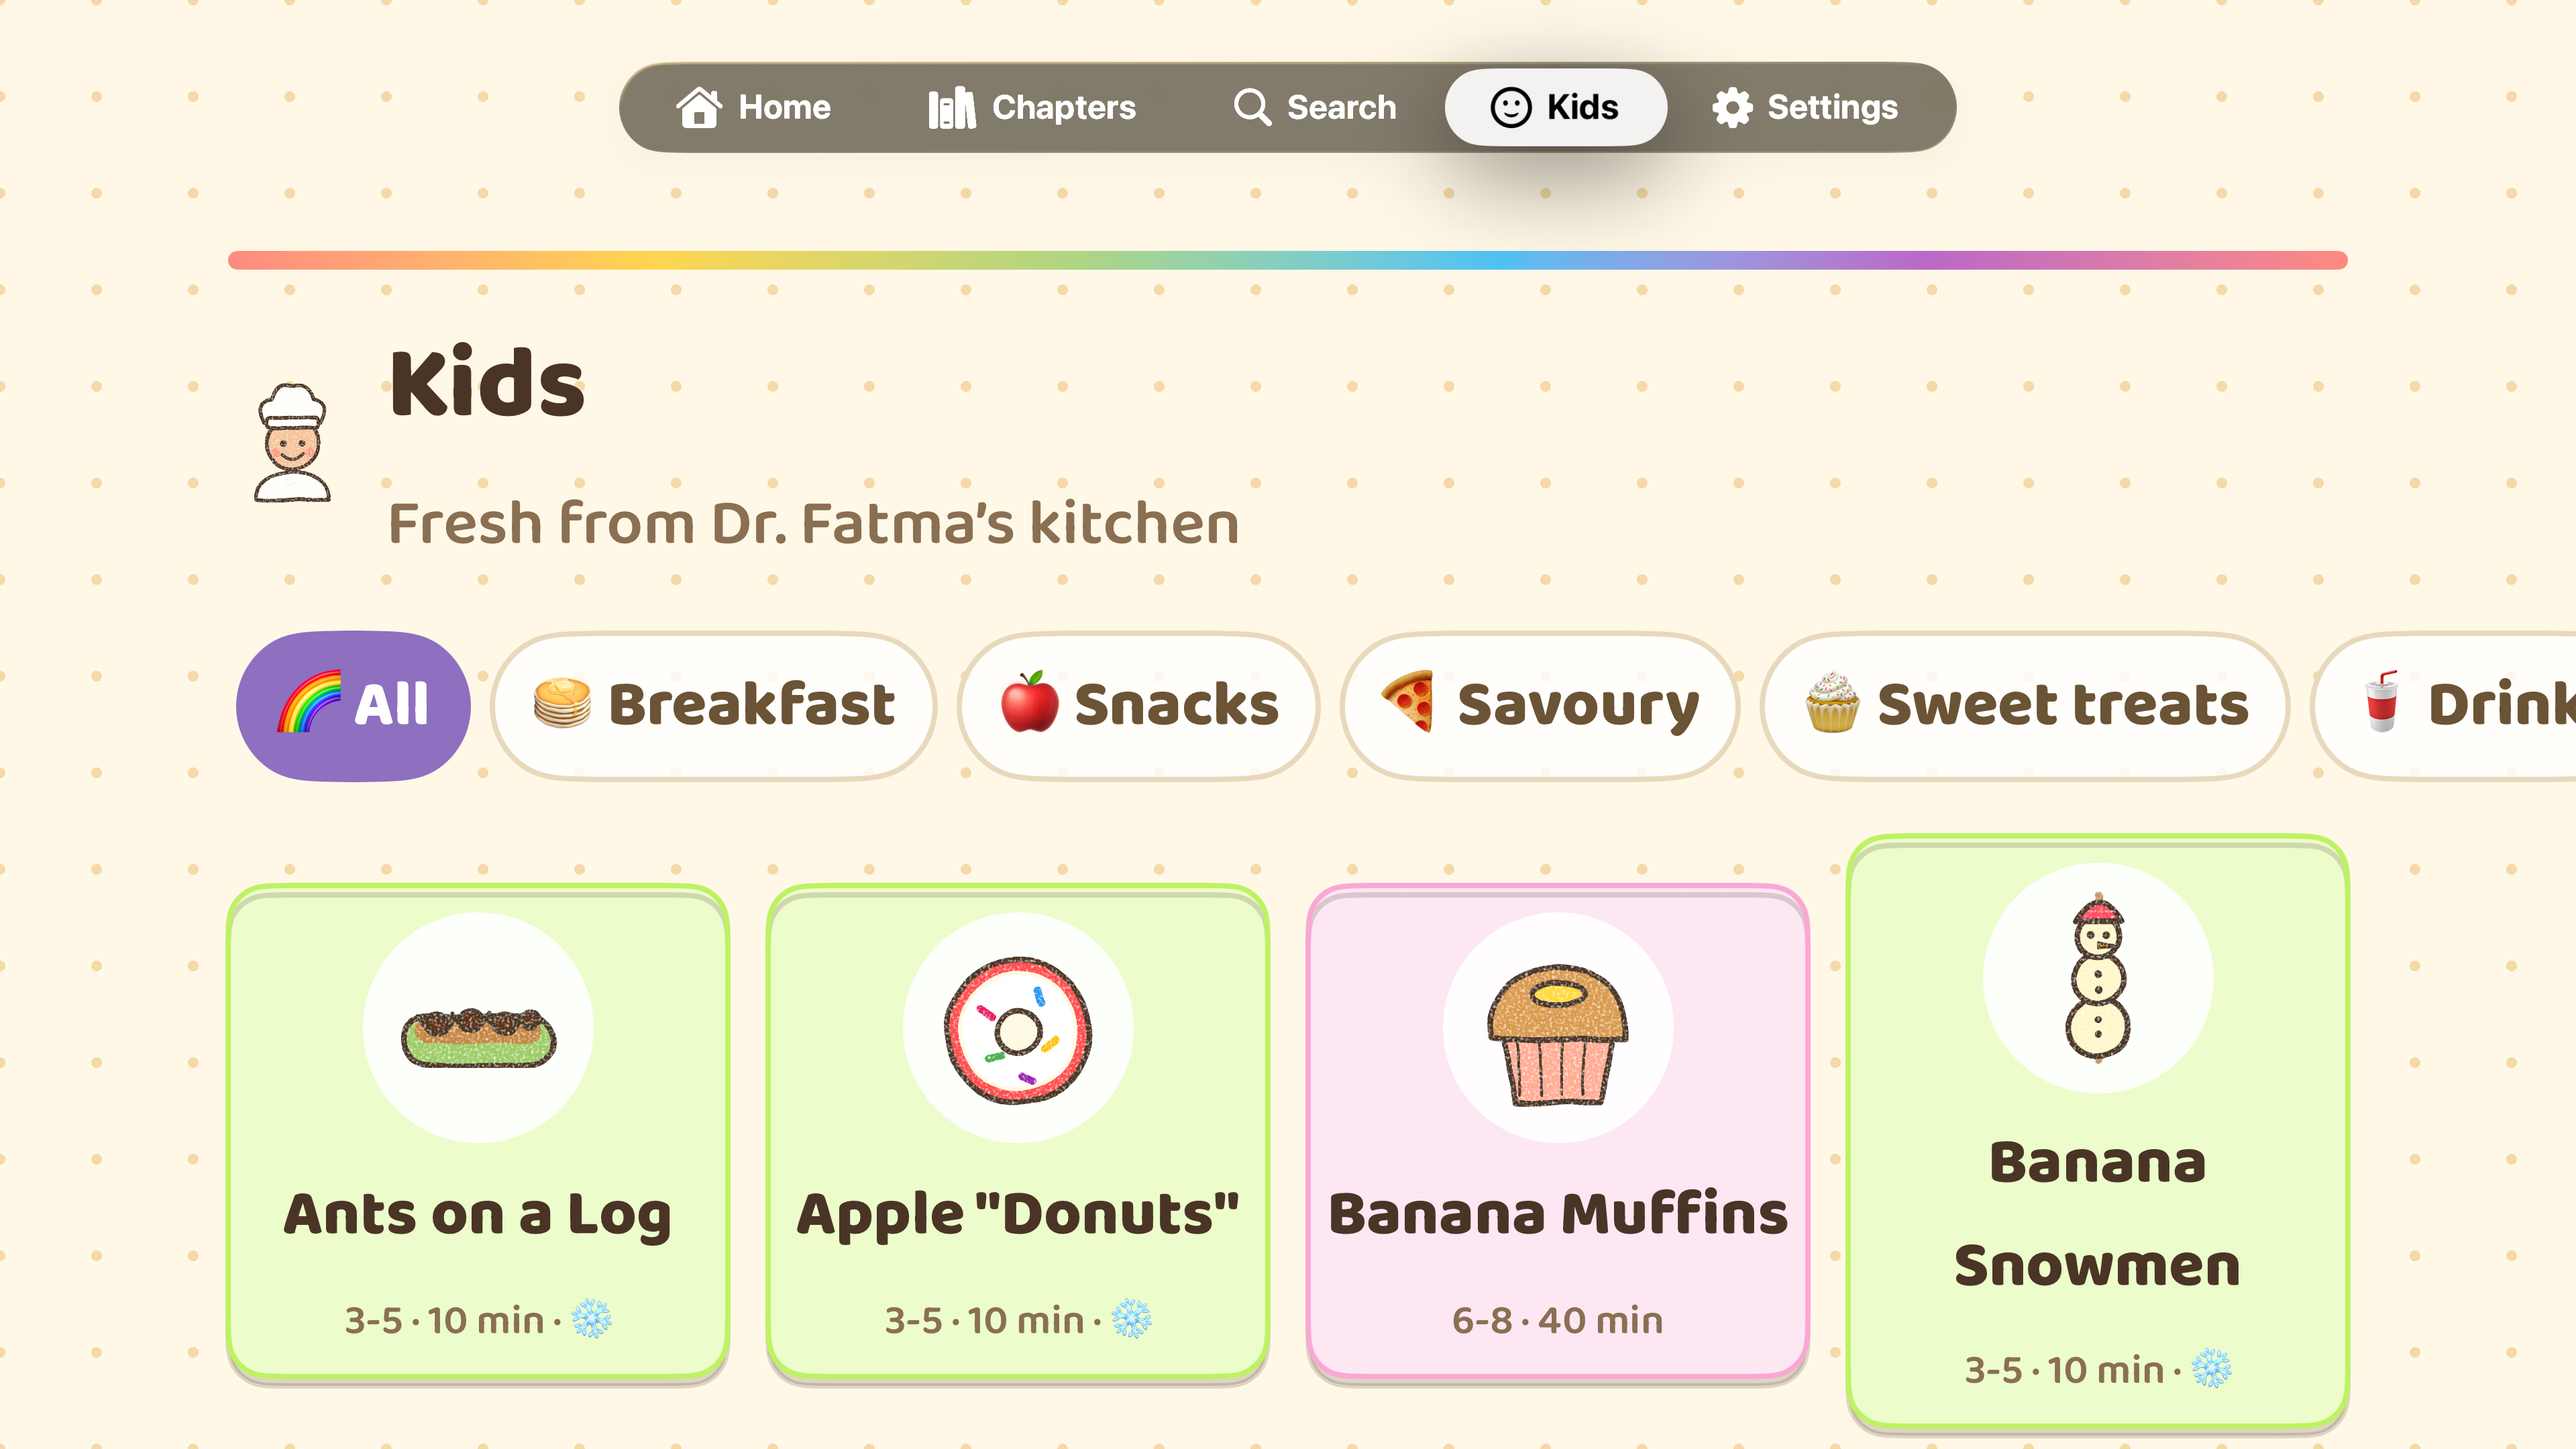
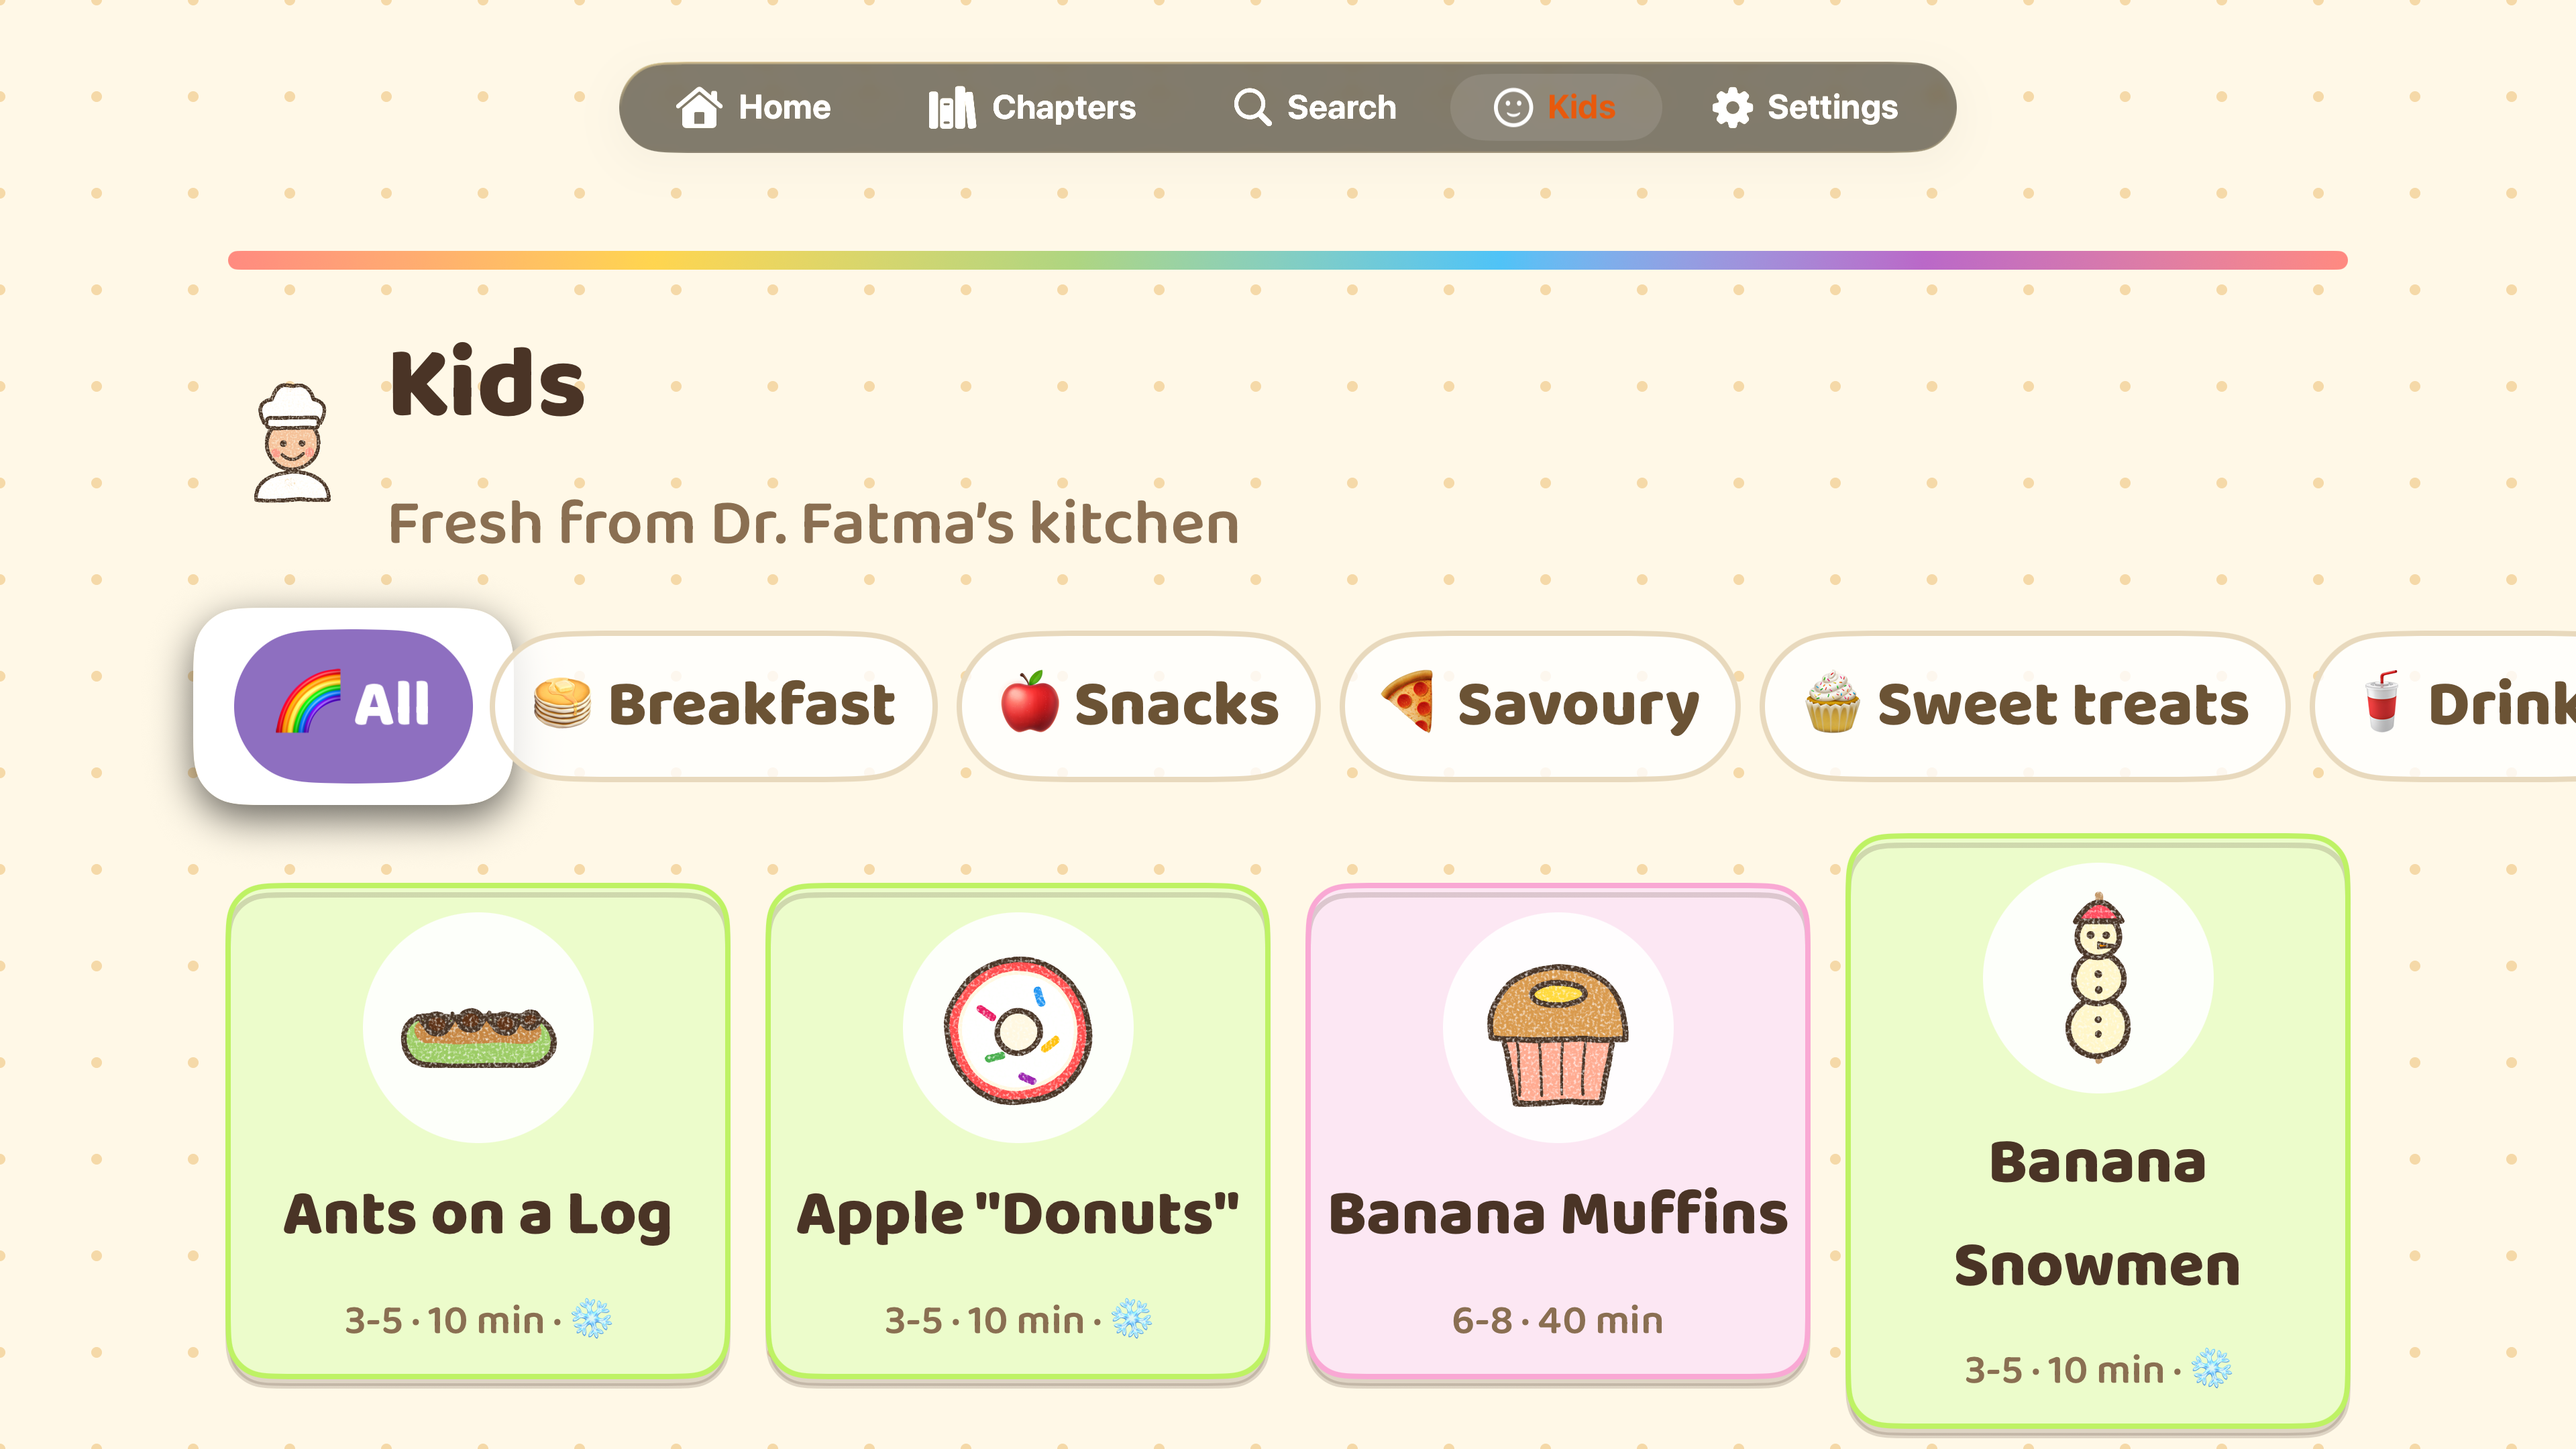
Capture more App Store screenshots (chapters, search, kids steps)
Generated with [Devin](https://devin.ai)

Changed region(s): [[0.0625, 0.4343, 0.2188, 0.5894], [0.5625, 0.031, 0.6562, 0.1551], [0.0938, 0.4032, 0.1875, 0.4343]]

diff --git a/FifiRecipesTVUITests/ScreenshotTests.swift b/FifiRecipesTVUITests/ScreenshotTests.swift
@@ -39,11 +39,22 @@ final class ScreenshotTests: XCTestCase {
         }
     }
 
-    private func goToKidsTab(_ app: XCUIApplication) {
+    private func goToTab(_ app: XCUIApplication, index: Int) {
         for _ in 0..<8 { remote.press(.up); usleep(200_000) }
         for _ in 0..<6 { remote.press(.left); usleep(120_000) }
-        for _ in 0..<3 { remote.press(.right); usleep(150_000) }
+        for _ in 0..<index { remote.press(.right); usleep(150_000) }
         remote.press(.select)
+        usleep(500_000)
+    }
+
+    /// Press down+select until the element appears (walks into grids).
+    private func pressUntil(_ app: XCUIApplication, _ id: String, tries: Int = 20) -> Bool {
+        for _ in 0..<tries {
+            if el(app, id).exists { return true }
+            remote.press(.down); usleep(300_000)
+            remote.press(.select); usleep(400_000)
+        }
+        return el(app, id).exists
     }
 
     func testCaptureScreenshots() throws {
@@ -64,11 +75,31 @@ final class ScreenshotTests: XCTestCase {
             XCTAssertTrue(el(app, "homeScreen").waitForExistence(timeout: 15))
         }
 
-        // — Kids —
-        goToKidsTab(app)
+        // — Chapters —
+        goToTab(app, index: 1)
+        if el(app, "chaptersScreen").waitForExistence(timeout: 40) {
+            sleep(2)
+            snap(app, "chapters-en")
+        }
+
+        // — Search —
+        goToTab(app, index: 2)
+        if el(app, "searchScreen").waitForExistence(timeout: 40) {
+            sleep(1)
+            snap(app, "search-en")
+        }
+
+        // — Kids catalogue —
+        goToTab(app, index: 3)
         if el(app, "kidsScreen").waitForExistence(timeout: 40) {
             sleep(2)
             snap(app, "kids-en")
+
+            // — Kids cooking steps —
+            if pressUntil(app, "kidsStepNext") {
+                sleep(1)
+                snap(app, "kids-steps-en")
+            }
         }
     }
 
